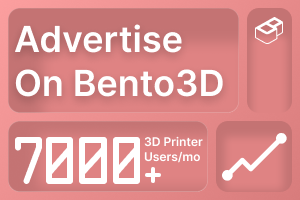
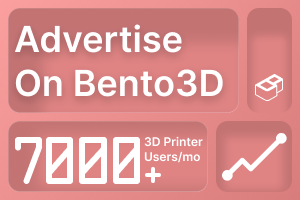
update UI

Changed region(s): [[0.84, 0.36, 0.96, 0.51], [0.84, 0.09, 0.96, 0.21], [0.87, 0.21, 0.9, 0.24]]

diff --git a/web/src/components/molecules/DialogAd.tsx b/web/src/components/molecules/DialogAd.tsx
@@ -1,0 +1,89 @@
+import React, { FC, useEffect, useState } from "react";
+import axios from "axios";
+import { Dialog } from "../atoms/Dialog";
+import { useAtom } from "jotai";
+import { isAdDialogOpenAtom } from "../../store/index";
+import { Icon, IconName } from "../atoms/Icon";
+
+interface DialogAdProps {}
+
+export const DialogAd: FC<DialogAdProps> = ({}) => {
+  const [isOpen, setIsOpen] = useAtom(isAdDialogOpenAtom);
+  const contents: { title: string; description: string; icon: IconName }[] = [
+    {
+      title: "High Impressions",
+      description: "Get access to 7000+ 3d printer users per month.",
+      icon: "analytics",
+    },
+    {
+      title: "Niche but Right Audience",
+      description: "Only 3d printer enthusiasts will look your Ads.",
+      icon: "nozzle",
+    },
+    {
+      title: "Hand Crafted Ads",
+      description: "We create perfect looking Ads. You only provide assets.",
+      icon: "pen",
+    },
+  ];
+  const handleMailClick = () => {
+    window.location.href =
+      "mailto:info@bento3d.com?subject=Advertise on Bento3D";
+  };
+
+  return (
+    <Dialog
+      isOpen={isOpen}
+      onClose={() => setIsOpen(false)}
+      className="max-w-sm"
+    >
+      <div className=" relative overflow-hidden rounded-md px-8 py-12 flex flex-col gap-8">
+        <h2 className="text-2xl font-semibold text-center bg-[linear-gradient(90.95deg,#FFFFFF_26.2%,#C0C0C0_63.92%,#EFEFEF_85.84%)] bg-clip-text text-transparent">
+          Advertise on Bento3D
+        </h2>
+        {contents.map((content) => (
+          <div className="flex gap-2 items-center text-content-dark-h-a">
+            <Icon name={content.icon} className="size-8" />
+            <div className="flex flex-col gap-1">
+              <h3 className="text-lg font-semibold">{content.title}</h3>
+              <p className="text-content-dark-m-a text-sm">
+                {content.description}
+              </p>
+            </div>
+          </div>
+        ))}
+        <div className="flex flex-col gap-4">
+          <button
+            className="b-button flex gap-2 items-center justify-center bg-content-dark-h-a w-fit mx-auto px-4 hover:bg-[rgba(255,255,255,1)]"
+            onClick={handleMailClick}
+          >
+            <Icon name="mail" className="size-6" />
+            <span>Get in touch</span>
+          </button>
+          <p className="text-sm text-content-dark-m-a text-center">
+            You can reach us at{" "}
+            <a
+              href="mailto:info@bento3d.com?subject=Advertise on Bento3D"
+              className="font-semibold underline hover:text-content-dark-h-a"
+            >
+              contact@bento3d.design
+            </a>
+          </p>
+        </div>
+        <div
+          className="size-8 flex items-center justify-center absolute top-4 right-4 cursor-pointer bg-content-dark-xl-a rounded-full hover:scale-110"
+          onClick={() => setIsOpen(false)}
+        >
+          <Icon name="close" className="text-content-dark-h-a" />
+        </div>
+        <img
+          src="/images/bg-ad.png"
+          alt=""
+          className="absolute inset-0 -z-10 h-full object-fill"
+        />
+      </div>
+    </Dialog>
+  );
+};
+
+export default DialogAd;

diff --git a/web/src/components/molecules/RightMenu.tsx b/web/src/components/molecules/RightMenu.tsx
@@ -13,6 +13,7 @@ import { Icon } from "../atoms/Icon";
 import updates from "../../assets/jsons/updates.json";
 import { Tooltip } from "react-tooltip";
 import { AnimatePresence, motion } from "framer-motion";
+import { Ad } from "../atoms/Ad";
 
 interface RightMenuProps {
   elements: ButtonElements[];
@@ -34,7 +35,6 @@ export const RightMenu: React.FC<RightMenuProps> = ({
   const [isUpdatesDrawerOpen, setIsUpdatesDrawerOpen] = useAtom(
     isUpdatesDrawerOpenAtom,
   );
-  const [showAds, setShowAds] = useState(true);
   const latestUpdate = updates.sort(
     (a, b) => new Date(b.date).getTime() - new Date(a.date).getTime(),
   )[0];
@@ -150,37 +150,27 @@ export const RightMenu: React.FC<RightMenuProps> = ({
             </div>
             <div className="flex w-full flex-col items-end px-2">
               <p className="flex flex-row items-center gap-1 text-sm relative group py-0.5 text-content-m w-fit">
-                <a href="">Assembly Tips</a>
+                <a
+                  href="https://polar-tadpole-97b.notion.site/Bento3D-e40483712b304d389d7c2da26196e113#9d32764885c746438fa229644e0149f9"
+                  target="_blank"
+                  rel="noreferrer"
+                >
+                  Assembly Tips
+                </a>
                 <Icon name="arrowUpRight" className="size-5" />
                 <span className="absolute left-0 bottom-0 w-0 border-b-[1px] border-content-l group-hover:w-full transition-all"></span>
               </p>
               <p className="flex flex-row items-center gap-1 text-sm relative group py-0.5 mb-2 text-content-m w-fit">
-                <a href="">How to fix broken STLs</a>
+                <a href="https://polar-tadpole-97b.notion.site/Bento3D-e40483712b304d389d7c2da26196e113#d826cb9d4d844200a0fbd5f7df783f14">
+                  How to fix broken STLs
+                </a>
                 <Icon name="arrowUpRight" className="size-5" />
                 <span className="absolute left-0 bottom-0 w-0 border-b-[1px] border-content-l group-hover:w-full transition-all"></span>
               </p>
             </div>
           </motion.div>
         )}
-        {showAds && (
-          <div className="mx-2 relative md:block hidden">
-            <button
-              onClick={() => setShowAds(false)}
-              className="absolute top-2 right-2 rounded-full bg-content-l hover:scale-105 transition-all p-1"
-            >
-              <Icon
-                name="close"
-                className="size-3 stroke-[4px] text-content-m"
-              />
-            </button>
-            <a
-              href="https://www.notion.so/Advertise-on-Bento3D-1a883eba018d8099b457ebdf6f64c293"
-              className="rounded-sm overflow-hidden block"
-            >
-              <img src="/images/ads/ad001.png" alt="" />
-            </a>
-          </div>
-        )}
+        <Ad />
 
         <Tooltip
           id="hint-tooltip"

diff --git a/web/src/components/atoms/Ad.tsx b/web/src/components/atoms/Ad.tsx
@@ -1,0 +1,49 @@
+import { Icon } from "../atoms/Icon";
+import { FC, useEffect, useMemo, useState } from "react";
+import ReactGA from "react-ga4";
+import useAdVisibility from "../../hooks/useAdVisibility";
+import { isAdDialogOpenAtom } from "../../../src/store";
+import { useAtom } from "jotai";
+
+// define type
+type AdProps = {};
+
+export const Ad: FC<AdProps> = () => {
+  const [showAds, setShowAds] = useState(true);
+  const [dialogOpen, setDialogOpen] = useAtom(isAdDialogOpenAtom);
+  const onAdViewable = () => {
+    ReactGA.event({
+      category: "AdBanner",
+      action: `ad_viewable`,
+    });
+  };
+  const adRef = useAdVisibility(onAdViewable, 1000);
+
+  useEffect(() => {
+    if (showAds) {
+      ReactGA.event({
+        category: "AdBanner",
+        action: `ad_impression`,
+      });
+    }
+  }, []);
+  if (!showAds) {
+    return null;
+  }
+  return (
+    <div className="mx-2 relative md:block hidden" ref={adRef}>
+      <button
+        onClick={() => setShowAds(false)}
+        className="absolute top-2 right-2 rounded-full bg-content-l hover:scale-105 transition-all p-1"
+      >
+        <Icon name="close" className="size-3 stroke-[4px] text-content-m" />
+      </button>
+      <button
+        className="rounded-sm overflow-hidden block"
+        onClick={() => setDialogOpen(true)}
+      >
+        <img src="/images/ads/ad002.png" alt="" />
+      </button>
+    </div>
+  );
+};

diff --git a/web/src/hooks/useAdVisibility.ts b/web/src/hooks/useAdVisibility.ts
@@ -1,0 +1,36 @@
+import { useEffect, useState, useRef } from "react";
+
+const useAdVisibility = (onVisible: () => void, threshold = 1000) => {
+  const [isVisible, setIsVisible] = useState(false);
+  const ref = useRef<HTMLDivElement | null>(null);
+
+  useEffect(() => {
+    let timeoutId: NodeJS.Timeout | null = null;
+
+    const observer = new IntersectionObserver(
+      ([entry]) => {
+        if (entry.isIntersecting) {
+          timeoutId = setTimeout(() => {
+            setIsVisible(true);
+            onVisible();
+          }, threshold); // 1秒（1000ms）表示されたらカウント
+        } else {
+          if (timeoutId) clearTimeout(timeoutId);
+          setIsVisible(false);
+        }
+      },
+      { threshold: 0.5 }, // 50%以上が表示されたとき
+    );
+
+    if (ref.current) observer.observe(ref.current);
+
+    return () => {
+      if (ref.current) observer.unobserve(ref.current);
+      if (timeoutId) clearTimeout(timeoutId);
+    };
+  }, [onVisible, threshold]);
+
+  return ref;
+};
+
+export default useAdVisibility;

diff --git a/web/src/components/atoms/Icon.tsx b/web/src/components/atoms/Icon.tsx
@@ -22,6 +22,10 @@ import { ReactComponent as bentoBox } from "../../assets/icons/bento-box.svg";
 import { ReactComponent as bentoPartition } from "../../assets/icons/bento-partition.svg";
 import { ReactComponent as config } from "../../assets/icons/config.svg";
 import { ReactComponent as arrowUpRight } from "../../assets/icons/arrow-up-right.svg";
+import { ReactComponent as analytics } from "../../assets/icons/analytics.svg";
+import { ReactComponent as nozzle } from "../../assets/icons/nozzle.svg";
+import { ReactComponent as pen } from "../../assets/icons/pen.svg";
+import { ReactComponent as mail } from "../../assets/icons/mail.svg";
 
 const icons = {
   arrowLeft,
@@ -48,6 +52,10 @@ const icons = {
   bentoPartition,
   config,
   arrowUpRight,
+  analytics,
+  nozzle,
+  pen,
+  mail,
 };
 
 export type IconName = keyof typeof icons;

diff --git a/web/src/AppOnboard.tsx b/web/src/AppOnboard.tsx
@@ -50,6 +50,7 @@ import { DialogFeedback } from "./components/molecules/DialogFeedback";
 import { Toast } from "./components/atoms/Toast";
 import DrawerUpdates from "./components/molecules/DrawerUpdates";
 import { LeftMenu } from "./components/molecules/LeftMenu";
+import DialogAd from "./components/molecules/DialogAd";
 
 function AppOnboard() {
   const step = useAtomValue(stepAtom);
@@ -403,6 +404,7 @@ function AppOnboard() {
       {/* <img src="/gradient-forestSunrise-wgom2.png" alt="" className='top-20 fixed inset-6 z-0'/> */}
       <DialogSettings />
       <DialogFeedback />
+      <DialogAd />
       <DrawerUpdates />
       <Toast />
     </>

diff --git a/web/src/store/index.ts b/web/src/store/index.ts
@@ -87,6 +87,7 @@ export const isDownloadDialogOpenAtom = atom<boolean>(false);
 export const isSettingDialogOpenAtom = atom<boolean>(false);
 export const isFeedbackDialogOpenAtom = atom<boolean>(false);
 export const isUpdatesDrawerOpenAtom = atom<boolean>(false);
+export const isAdDialogOpenAtom = atom<boolean>(true);
 export type Toast = {
   isOpen: boolean;
   content: string;

diff --git a/web/src/index.tsx b/web/src/index.tsx
@@ -1,7 +1,6 @@
 import React from "react";
 import ReactDOM from "react-dom/client";
 import "./index.css";
-import App from "./App";
 import reportWebVitals from "./reportWebVitals";
 import AppOnboard from "./AppOnboard";
 
